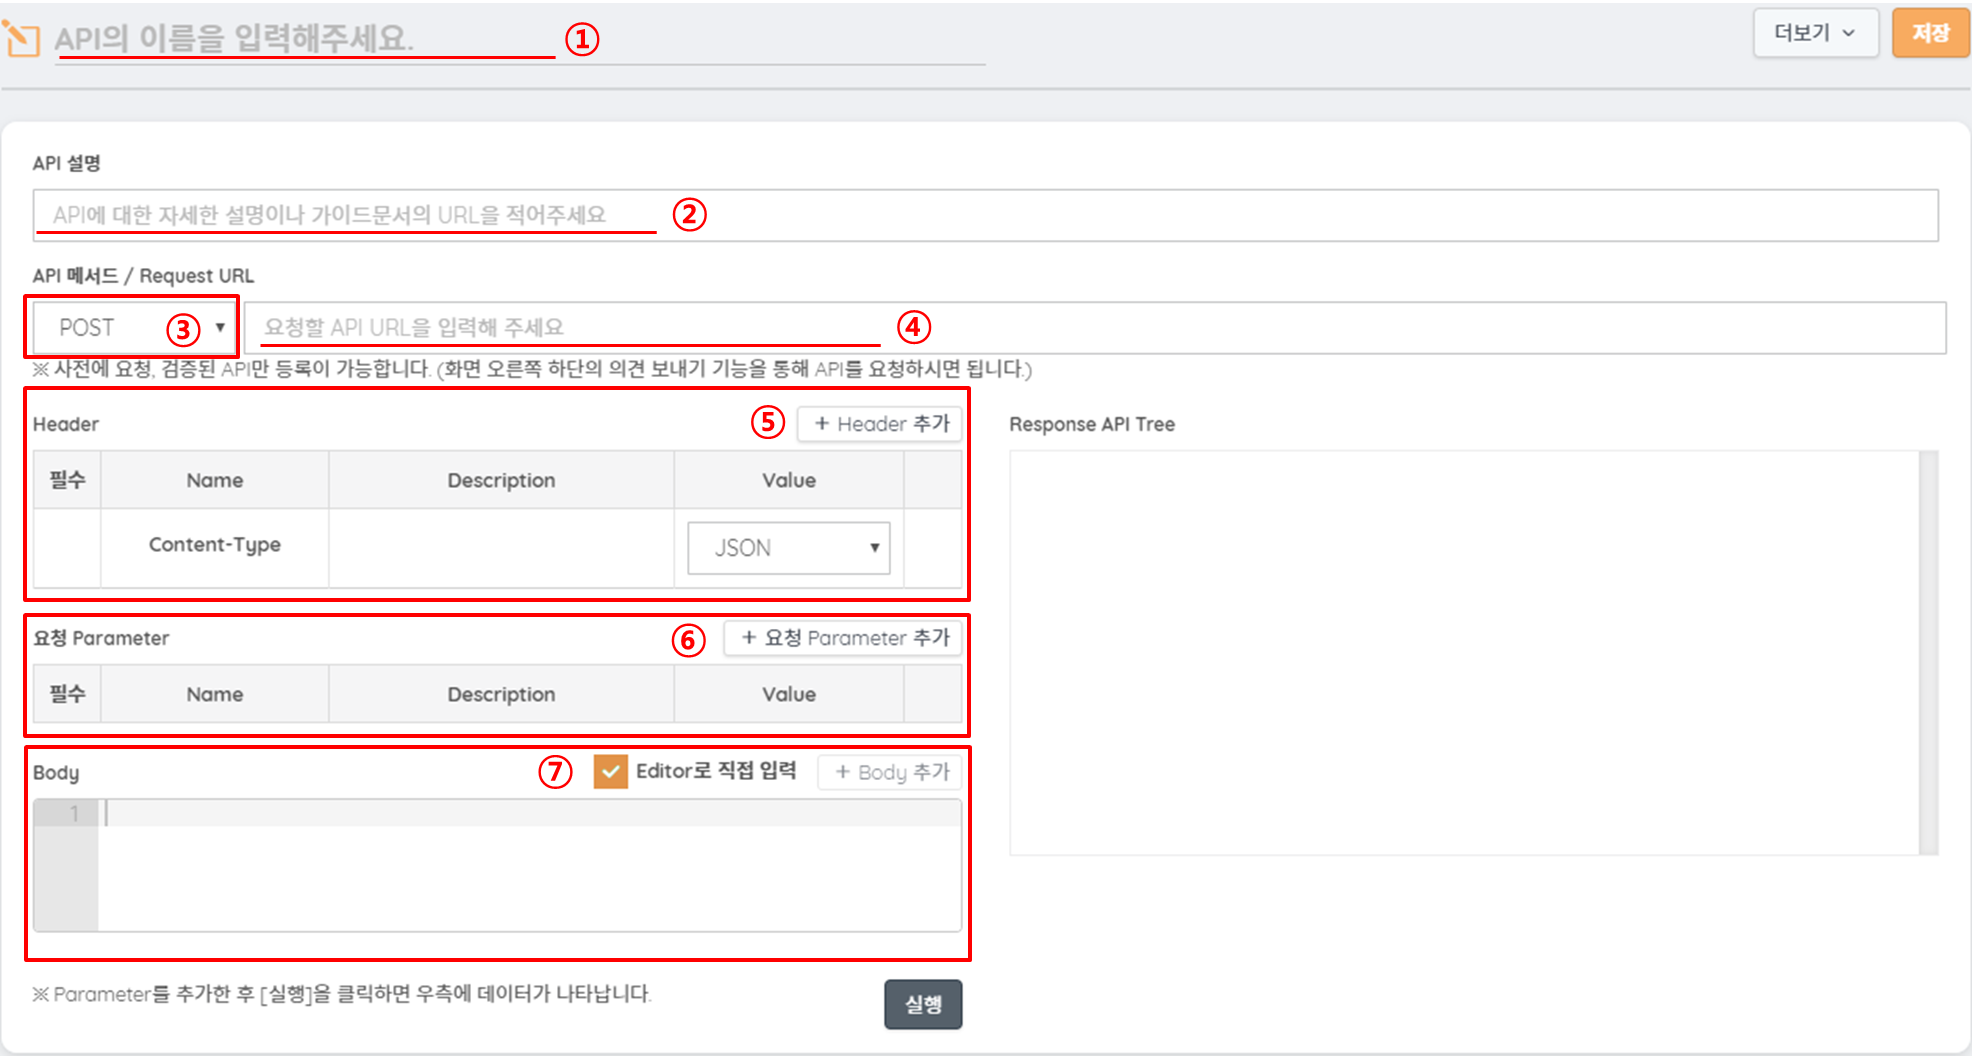
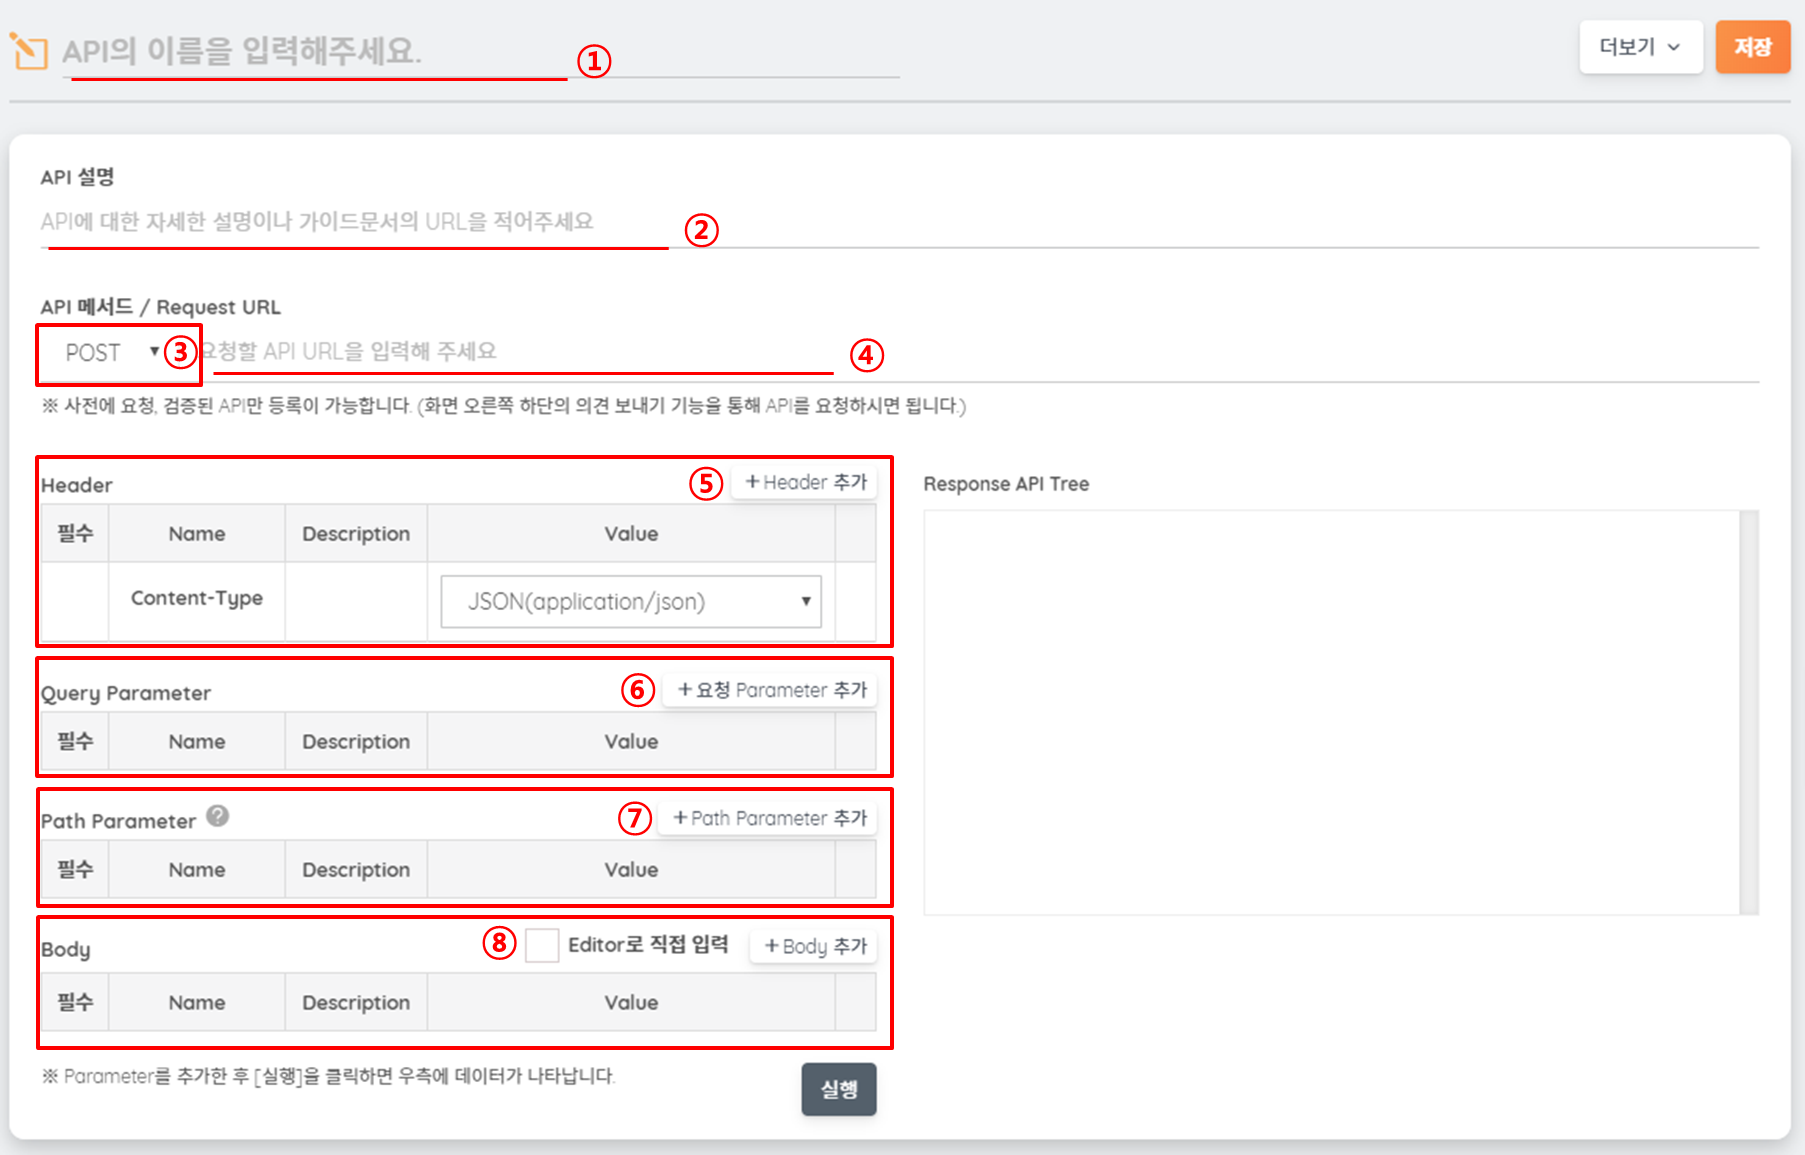
API노드/관리 Path Parameter 업데이트

diff --git a/pages/danbeeDoc/G1_external_API_management.md b/pages/danbeeDoc/G1_external_API_management.md
@@ -43,9 +43,11 @@ API 등록 요청 화면 입니다.
 - ⑤ 입력한 API URL로 보내는 요청의 [Header](external_API_management.html#header-와-content-type) 정보를 설정하는 란입니다.<br/>
 &nbsp;&nbsp;&nbsp;&nbsp; [Content-Type](external_API_management.html#header-와-content-type) 은 고정값이며 현재 JSON 형태만 지원합니다.<br/>
 &nbsp;&nbsp;&nbsp;&nbsp; 추가 Header 정보를 'Header 추가' 버튼으로 추가할 수 있습니다.
-- ⑥ 마찬가지로 API URL로 보내는 요청의 Parameter 정보를 설정하는 란입니다.<br/>
-&nbsp;&nbsp;&nbsp;&nbsp; API에서 요구하는 파라미터를 추가하려면 '요청 Parameter 추가' 버튼을 클릭하여 추가합니다.
-- ⑦ API의 메서드가 'POST'일 경우(③번에서 POST를 선택한 경우) Body를 입력하는 란이 표시됩니다.
+- ⑥ API URL에 key=value 형식으로 사용하는 Query Parameter 정보를 설정하는 란입니다.<br/>
+&nbsp;&nbsp;&nbsp;&nbsp; 
+- ⑦ API URL에 경로처럼 사용하는 Path Parameter를 설정하는 란입니다.
+&nbsp;&nbsp;&nbsp;&nbsp; 
+- ⑧ API의 메서드가 'POST'일 경우(③번에서 POST를 선택한 경우) Body를 입력하는 란이 표시됩니다.
 &nbsp;&nbsp;&nbsp;&nbsp; Body는 다른 파라미터와 마찬가지로 하나씩 추가하여 입력하거나 Text Editor를 이용하여 입력할 수 있습니다.
 
 
@@ -64,18 +66,32 @@ Content-Type도 그중 하나로써, 서버로 보내는 정보의 유형을 의
 - XML  : 'application/xml', 'text/xml' 두가지 방식을 지원하며 사용하려는 API에서 정의된 형식을 선택하시면 됩니다.
 {% include image.html file="external_API/02_api_manage_c_header.png" max-width="900" caption="Header와 Content-Type" %} 
 
-#### 요청 Parameter
-danbee.Ai 측에서, API에 전송할 parameter명과 값을 설정 및 입력합니다.<br/>
-요청 parameter 추가시 요청 parameter 입력 테이블 우측 상단의 **+ 요청 Parameter 추가** 버튼을 클릭합니다. 
-{% include image.html file="external_API/02_api_manage_c_parameter.png" max-width="900" caption="요청 Parameter 예시" %} 
+#### Query Parameter / Path Parameter
+API URL에 Parameter를 실어 보내는 방법으로 Query Parameter 방식과 Path Parameter 방식을 제공합니다.
+'http://apiurl/api'이라는 API URL이 있을 때 'name'이란 변수명으로 'value'란 값을 보낼 때
+Query Parameter는<br/>
+<pre><code>http://apiurl/api?name=value</code></pre><br/>
+와 같이 Parameter를 URL에 Query String 형식으로 작성하여 사용하는 방식입니다.<br/>
+(Query Parameter는 danbee.Ai에서 기존에 제공하던 기능과 동일합니다.)<br/>
+{% include image.html file="external_API/02_api_manage_c_parameter.png" max-width="900" caption="Query Parameter" %}
 
-parameter 입력 후, **실행** 버튼을 클릭해, Response API Tree에서 API 적용 실행 결과를 확인할 수 있습니다.
+Path Parameter는<br/>
+<pre><code>http://apiurl/api/value</code></pre><br/>
+와 같이 URL의 경로처럼 사용하여 해당 경로를 값으로 사용하는 방식입니다.<br/>
+danbee.Ai에서는 Path Parameter 기능을 값 치환 방법으로 제공합니다.<br/>
+즉 아래와 같이 API URL에 '{name}' 과 같이 중괄호로 둘러싼 Path Parameter의 Name을 등록되어있는 Value로 치환합니다.
+{% include image.html file="external_API/05_api_manage_path_param.png" max-width="900" caption="Path Parameter" %}
+
+두가지 방식(Query Parameter와 Path Parameter)은 혼용하여 사용 가능합니다.<br/>
 
 #### Body
 등록할 외부 API의 메서드가 POST일 경우 Request Body를 작성할 수 있습니다.<br/>
 Header, 요청 Parameter와 같이 'Body 추가' 버튼으로 하나씩 추가하거나,<br/>
 Editor를 이용하여 직접 작성할 수도 있습니다 (현재, JSON 형식만 지원합니다.)<br/>
 {% include image.html file="external_API/04_api_manage_body_editor.png" max-width="600" caption="Body 입력" %}
+
+parameter 입력 후, **실행** 버튼을 클릭해하여<br/>
+Response API Tree에서 API 적용 실행 결과를 확인할 수 있습니다.
 
 #### Response API Tree
 실행 성공시, Response API Tree에서 Tree 형태의 데이터가 조회됩니다.<br/>
